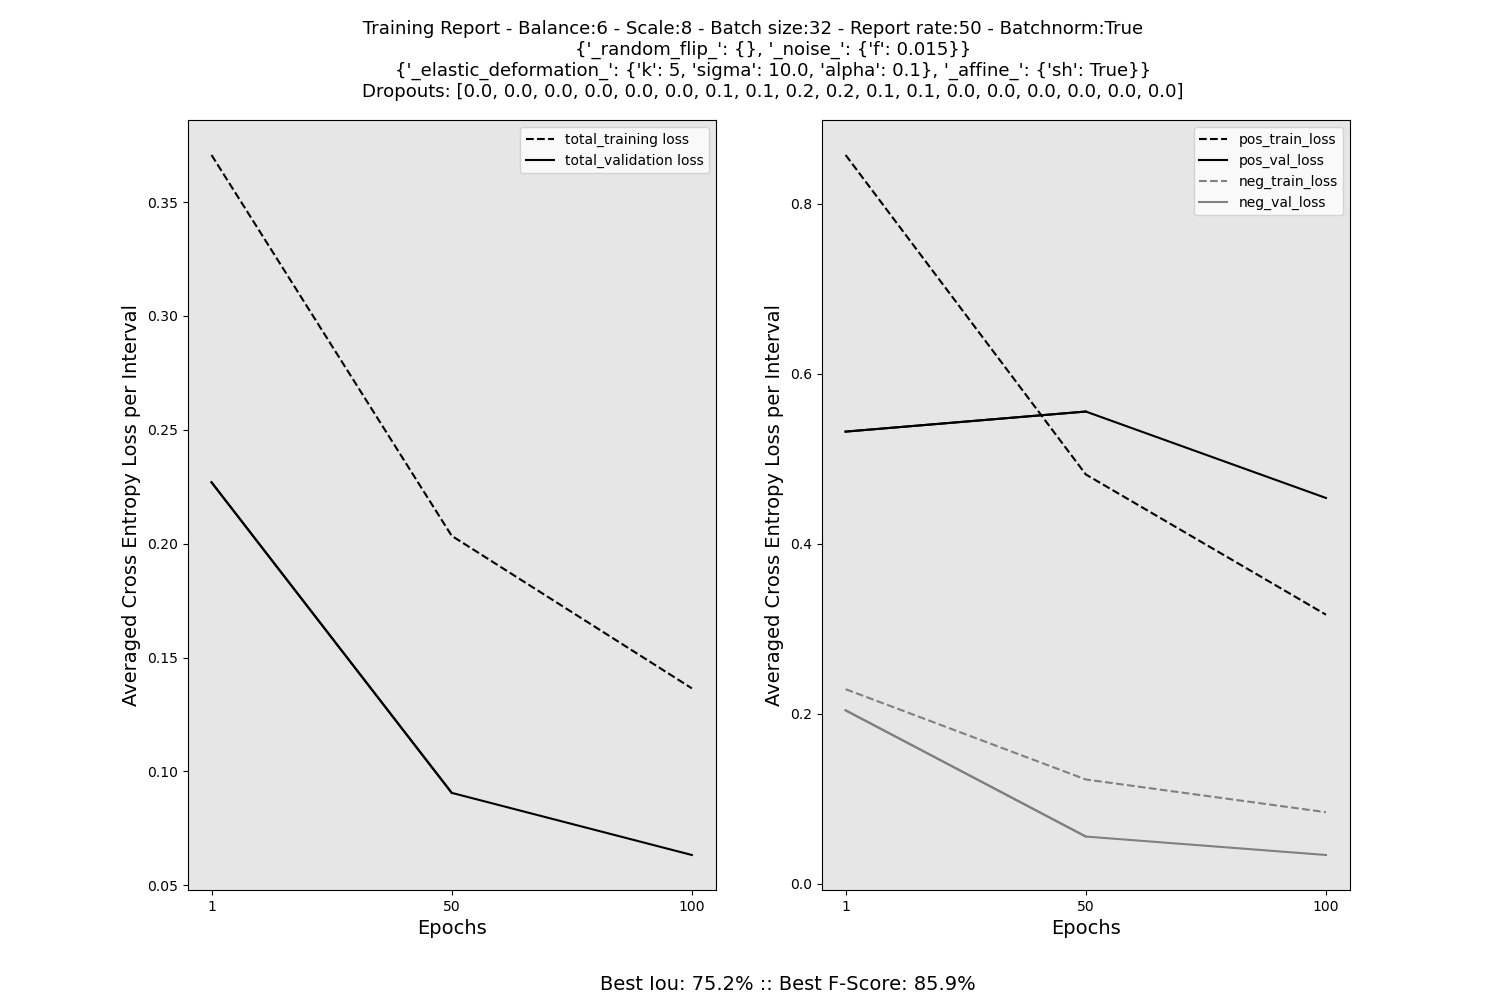
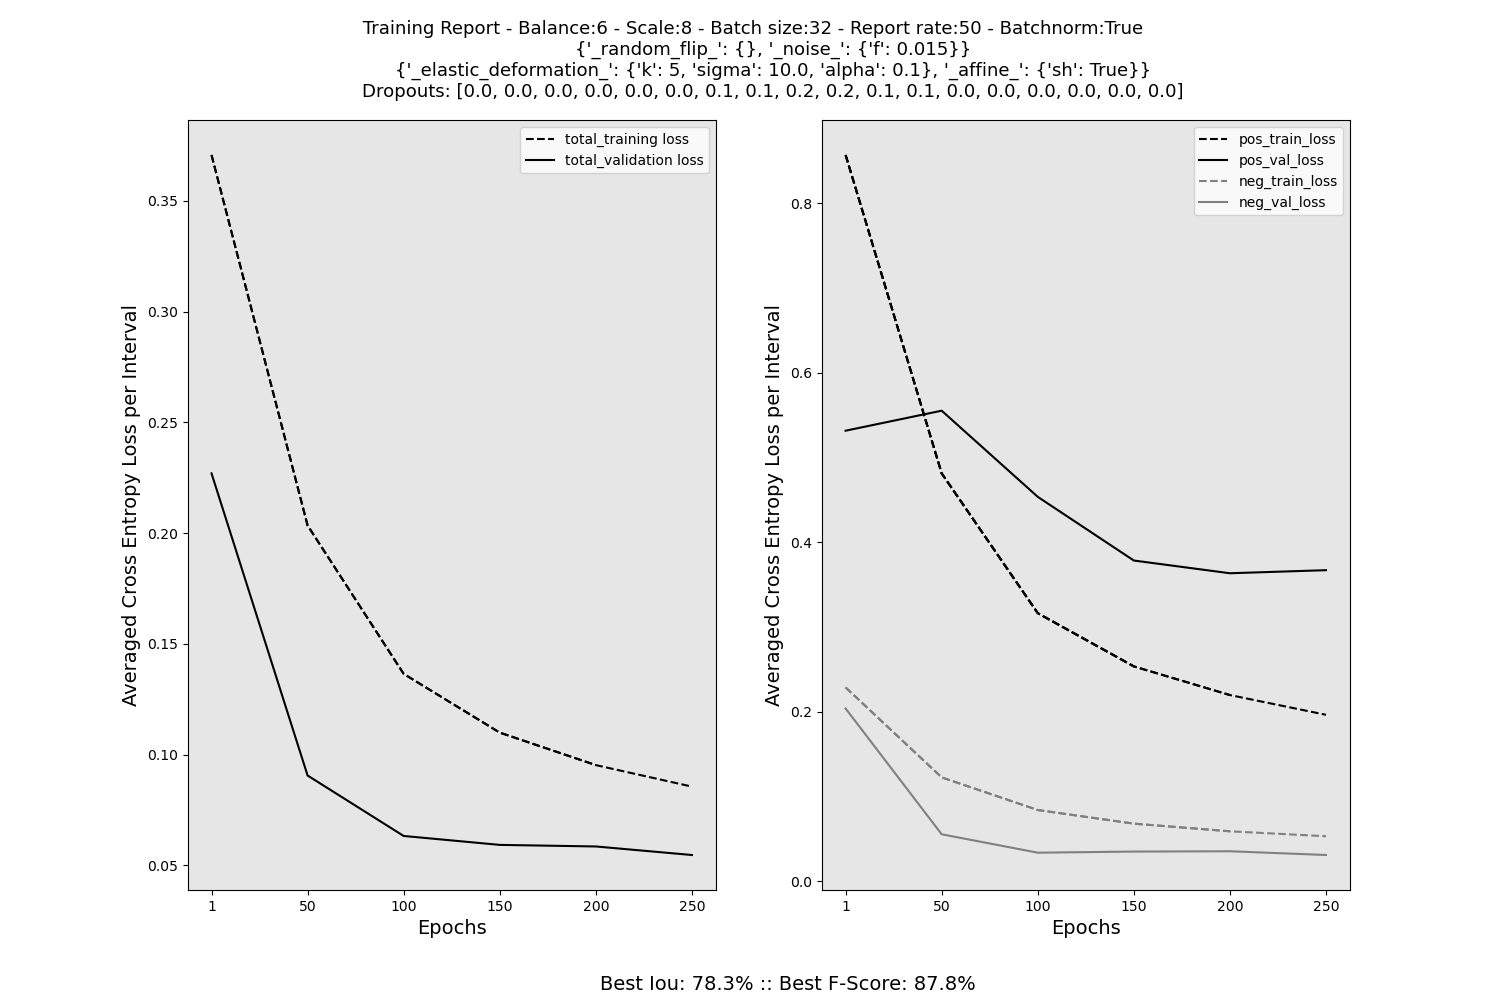
--

diff --git a/model_architecture.py b/model_architecture.py
@@ -14,28 +14,28 @@ class BuildingsModel(nn.Module):
         self.hooks = {}
         self.batchnorm = nn.BatchNorm2d(in_channels)
         self.down_1 = DownSamplingBlock(in_channels, init_out_factor,
-                                        dropout=(0., 0.))
+                                        dropout=(0.04, 0.04))
         self.down_2 = DownSamplingBlock(self.down_1.conv2.out_channels, 2,
-                                        dropout=(0., 0.))
-        self.down_3 = DownSamplingBlock(self.down_2.conv2.out_channels, 2,
-                                        dropout=(0., 0.))
-        self.down_4 = DownSamplingBlock(self.down_3.conv2.out_channels, 2,
                                         dropout=(0.1, 0.1))
+        self.down_3 = DownSamplingBlock(self.down_2.conv2.out_channels, 2,
+                                        dropout=(0.15, 0.15))
+        self.down_4 = DownSamplingBlock(self.down_3.conv2.out_channels, 2,
+                                        dropout=(0.2, 0.2))
         self.down_5 = DownSamplingBlock(self.down_4.conv2.out_channels, 2,
                                         max_pooling=False,
-                                        dropout=(0.2, 0.2))
+                                        dropout=(0.25, 0.25))
         self.up_1 = UpSamplingBlock(self.down_5.conv2.out_channels, 2,
                                     skip_channels=self.down_4.conv2.out_channels,
-                                    dropout=(0.1, 0.1))
+                                    dropout=(0.2, 0.2))
         self.up_2 = UpSamplingBlock(self.up_1.conv2.out_channels, 2,
                                     skip_channels=self.down_3.conv2.out_channels,
-                                    dropout=(0., 0.))
+                                    dropout=(0.15, 0.15))
         self.up_3 = UpSamplingBlock(self.up_2.conv2.out_channels, 2,
                                     skip_channels=self.down_2.conv2.out_channels,
-                                    dropout=(0., 0.))
+                                    dropout=(0.1, 0.1))
         self.up_4 = UpSamplingBlock(self.up_3.conv2.out_channels, 2,
                                     skip_channels=self.down_1.conv2.out_channels,
-                                    dropout=(0., 0.))
+                                    dropout=(0.04, 0.04))
         self.z = nn.Conv2d(self.up_4.conv2.out_channels,
                            out_channels=2,
                            kernel_size=1)

diff --git a/model_training.py b/model_training.py
@@ -79,8 +79,8 @@ class Training:
         self.acc_text = self.r_fig.text(0.4, 0.01, "")
         
         augs = self.training_loader.dataset.augmentations
-        group_1 = {k: l for k, l in list(augs.items())[:len(augs)//2]}
-        group_2 = {k: l for k, l in list(augs.items())[len(augs)//2:]}
+        group_1 = {k: l for k, l in list(augs.items())[:len(augs)//2+1]}
+        group_2 = {k: l for k, l in list(augs.items())[len(augs)//2+1:]}
         del augs
 
         self.r_fig.suptitle(
@@ -282,7 +282,7 @@ class Training:
                                                               0.5,
                                                               patience=10,
                                                               verbose=True,
-                                                              min_lr=5e-7)
+                                                              min_lr=5e-8)
         if self.argv.reload:
             self.scheduler.load_state_dict(self.checkpoint['scheduler_state'])
 
@@ -490,7 +490,7 @@ class Training:
             "  -- Reporting Active: Saving Report -- "
         )
         self.r_fig.savefig(
-            f"Reports/report_b{self.argv.balance_ratio}_{run_time}.png")
+            f"Reports/report_{run_time}.png")
         self.acc_text.remove()
         
         for ax in self.r_axes:

diff --git a/data_loader.py b/data_loader.py
@@ -464,12 +464,14 @@ class Buildings(Dataset):
         img[0] = nn_F.grid_sample(img[0].unsqueeze(0),
                                   eye_grid,
                                   align_corners=True,
-                                  mode='bicubic').squeeze(0)
+                                  mode='bicubic',
+                                  padding_mode='reflection').squeeze(0)
 
         img[1] = nn_F.grid_sample(img[1].float().reshape(1, 1, *img[1].shape),
                                   eye_grid,
                                   align_corners=True,
-                                  mode='bicubic').reshape(img[1].shape)
+                                  mode='bicubic',
+                                  padding_mode='reflection').reshape(img[1].shape)
         img[1][img[1] > 0.5] = 1
         return img[0].clamp(0, 1), img[1]
 
@@ -526,7 +528,7 @@ class Buildings(Dataset):
 
         # image, label = self._random_crop_([image, label], (64, 64))
         image, label = self._random_flip_([image, label])
-        image = self._noise_(image, f=0.015)
+        image = self._noise_(image, f=0.01)
         # image = self._adjust_contrast_(image, r=.3, m=.85)
         # image = self._adjust_brightness_(image, r=.3, m=.85)
         image, label = self._elastic_deformation_([image, label],

diff --git a/README.md b/README.md
@@ -1,1 +1,33 @@
-<h1> Training a U-Net for Building Segmentation on Ikonos-2 Satellite Images </h1>
+<style>
+    div.sections {
+        background-color: #999;
+        border-radius: 5px;
+        }
+</style>
+
+<body>
+    <div>
+        <h1 style='text-align:center'> A U-Net implementation for Building Segmentation on Ikonos-2 Satellite Images </h1>
+        <h3 style='text-align:center'>
+            Project based on the original <a href="https://arxiv.org/abs/1505.04597">U-Net paper</a>
+            by Olaf Ronneberger, Philipp Fischer and Thomas Brox
+        </h2>
+    </div>
+    <div class='sections'>
+        <ol>
+            <li>
+                <div style='border-width:1px;padding:5px'>
+                    <h2>Training Environment</h4>
+                    <h3 style='text-align:justify'>Training mainly followed the recommendations of Ronneberger et al. (2015). Additional training ideas and methods were adopted from
+                        <a url='https://www.google.com/search?channel=fs&client=ubuntu&q=deep+learning+with+pytorch'>Deep Learning with PyTorch</a> by Eli Stevens, Luca Antiga and Thomas Viehmann (2020)
+                    </h3>
+                    <p></p>
+                </div>
+            </li>
+        </ol>
+    </div>
+</body>
+<footer>
+Iosif Doundoulakis <br>
+iosif.doundoulakis@outlook.com
+</footer>
